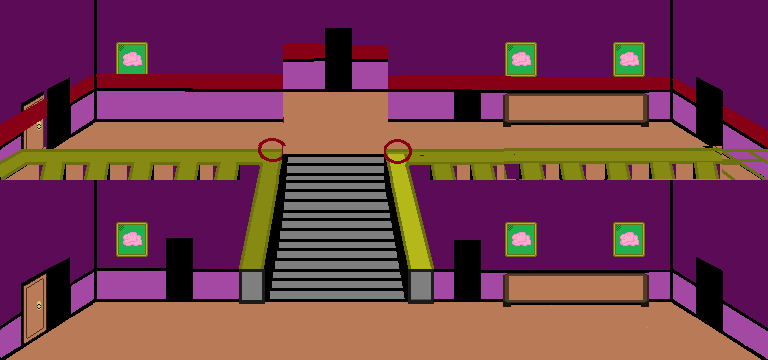
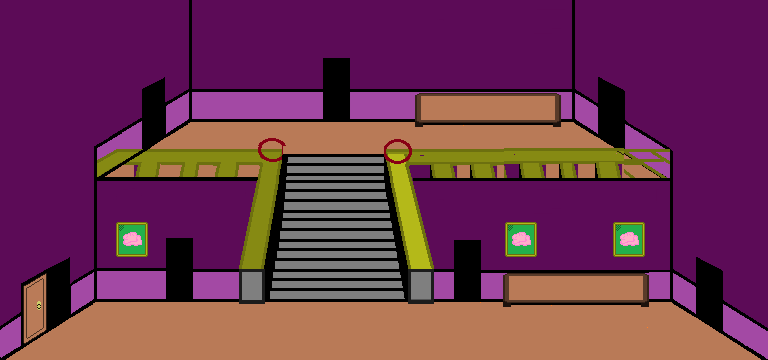
Bugs arreglados pre beta  - Teleports enlazados y correccion de renderizado de objetos

Changed region(s): [[0.0, 0.0, 1.0, 0.5194]]

diff --git a/js/catalogs/objects.js b/js/catalogs/objects.js
@@ -571,7 +571,7 @@ window.ObjectLibrary = [
     teleportY: 4,
     teleportDirection: "left",
 
-    interactionTileX: 3,
+    interactionTileX: 7,
     interactionTileY: 4,
   },
 
@@ -604,11 +604,85 @@ window.ObjectLibrary = [
     teleportMode: "inside",
 
     teleportTo: "map2",
-    teleportX: 3,
+    teleportX: 7,
     teleportY: 4,
     teleportDirection: "right",
 
     interactionTileX: 14,
+    interactionTileY: 4,
+  },
+
+  // ---------------------------------------------
+  // Door 14 - Cuarto de estar / Entrada - map 3
+  // ---------------------------------------------
+  {
+    id: "door_14",
+    doorPair: "door_pair_8",
+
+    type: "door",
+    name: "Puerta",
+
+    description: "Es una puerta.",
+
+    sprite: "door_14.png",
+
+    defaultSpriteWidth: 24,
+    defaultSpriteHeight: 71,
+
+    defaultHitboxWidth: 24,
+    defaultHitboxHeight: 71,
+
+    pickup: false,
+
+    locked: true,
+    opened: false,
+
+    interactionMode: "inside",
+    teleportMode: "inside",
+
+    teleportTo: "map8",
+    teleportX: 3,
+    teleportY: 4,
+    teleportDirection: "right",
+
+    interactionTileX: 24,
+    interactionTileY: 4,
+  },
+
+  // ---------------------------------------------
+  // Door 15 - Cuarto de estar / Salida - map 2
+  // ---------------------------------------------
+  {
+    id: "door_15",
+    doorPair: "door_pair_8",
+
+    type: "door",
+    name: "Puerta",
+
+    description: "Es una puerta.",
+
+    sprite: "door_15.png",
+
+    defaultSpriteWidth: 24,
+    defaultSpriteHeight: 71,
+
+    defaultHitboxWidth: 24,
+    defaultHitboxHeight: 71,
+
+    pickup: false,
+
+    locked: true,
+    opened: false,
+
+    interactionMode: "inside",
+    teleportMode: "inside",
+
+    teleportTo: "map2",
+    teleportX: 24,
+    teleportY: 4,
+    teleportDirection: "left",
+
+    interactionTileX: 3,
     interactionTileY: 4,
   },
 

diff --git a/js/game/render.js b/js/game/render.js
@@ -271,10 +271,10 @@ function drawMap(ctx, mapImageLoaded, mapImage, state, canvas, MAP_SCALE) {
   if (mapImageLoaded && mapImage) {
     ctx.drawImage(
       mapImage,
-      Math.floor(state.camera.x),
-      Math.floor(state.camera.y),
-      Math.floor(canvas.width / MAP_SCALE),
-      Math.floor(canvas.height / MAP_SCALE),
+      state.camera.x,
+      state.camera.y,
+      canvas.width / MAP_SCALE,
+      canvas.height / MAP_SCALE,
       0,
       0,
       canvas.width,
